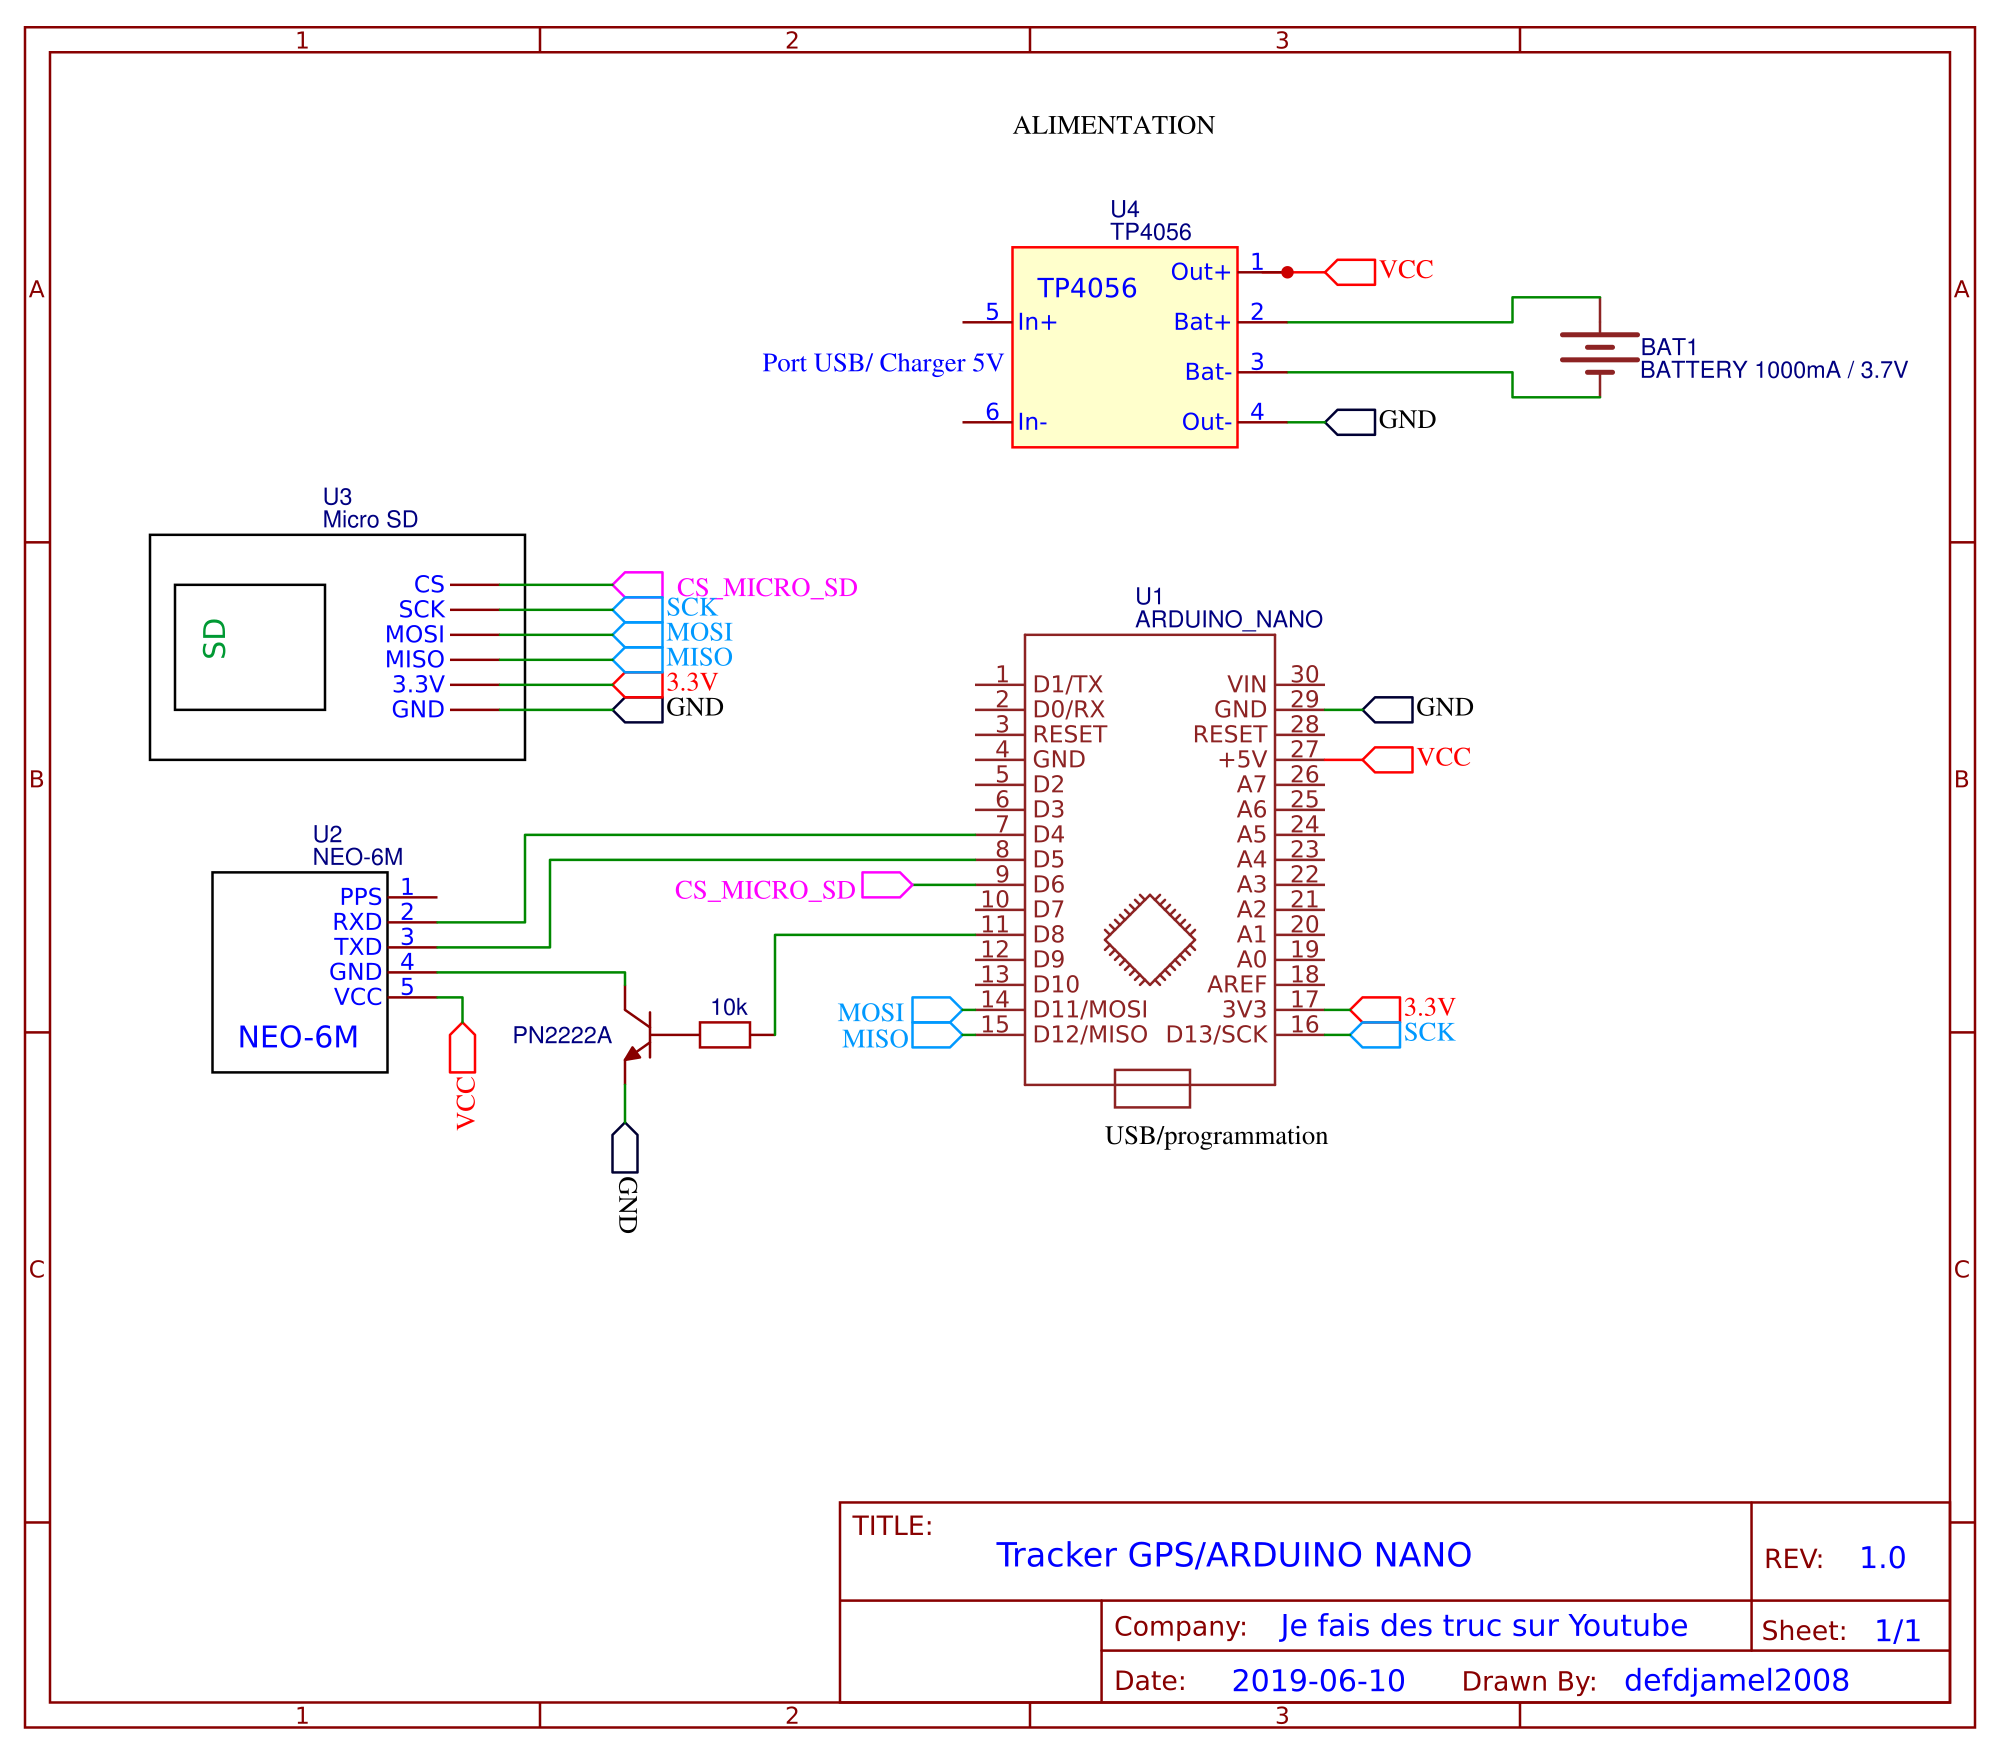
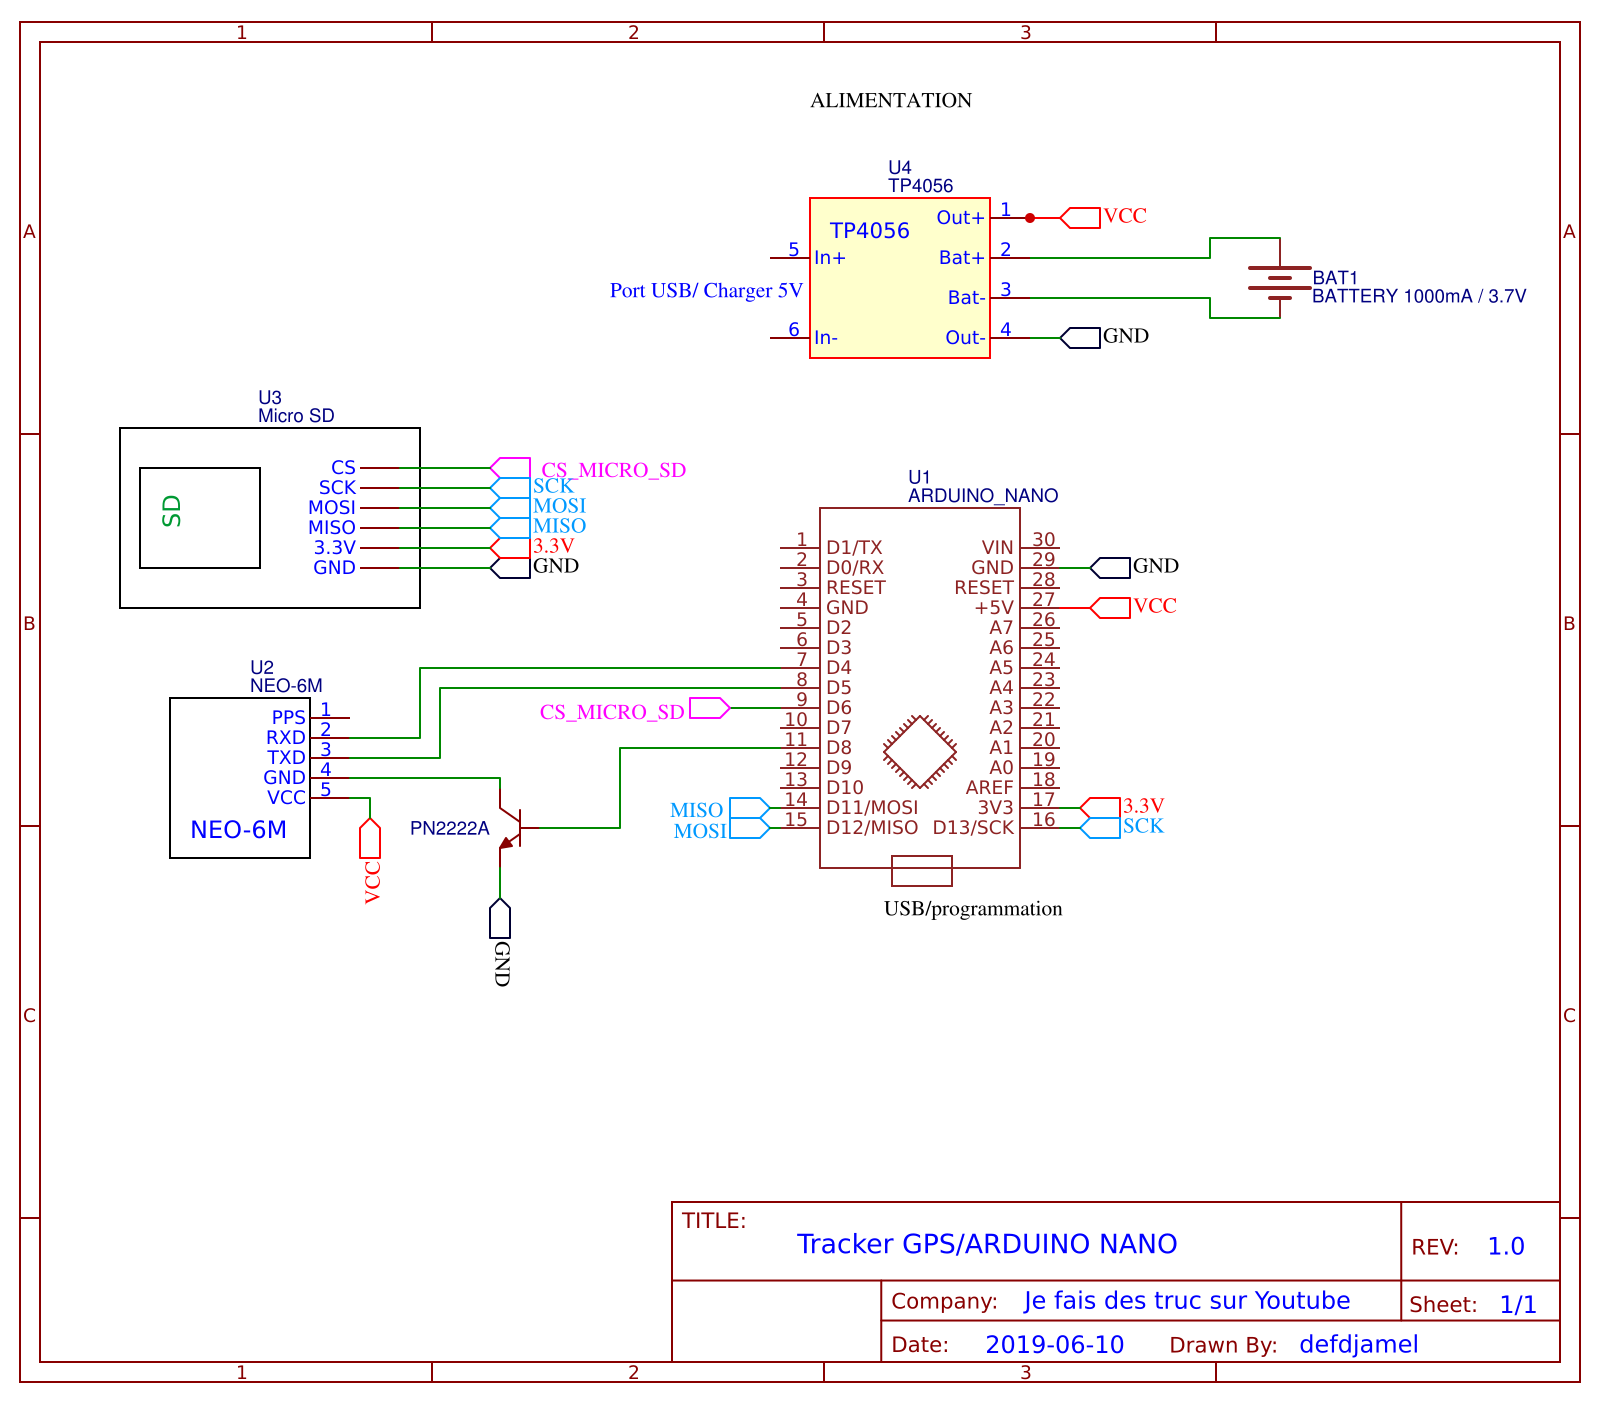
Update PIN number

diff --git a/Constants.h b/Constants.h
@@ -1,11 +1,11 @@
 //Hardware
-static const int RXPin =6, TXPin = 4;
+static const int GPSRXPin = 4 , GPSTXPin = 5;
 static const uint32_t GPSBaud = 9600;
 
 // The serial connection to the GPS module
-SoftwareSerial gpsSerial(TXPin, RXPin);
+SoftwareSerial gpsSerial(GPSTXPin ,GPSRXPin);
 
-const int chipSelect = 5;
+const int chipSelect = 6;//SD card select pin
 const int gpsPin = 8;
 
 const int  DEBUG_MODE  = 0 ;
